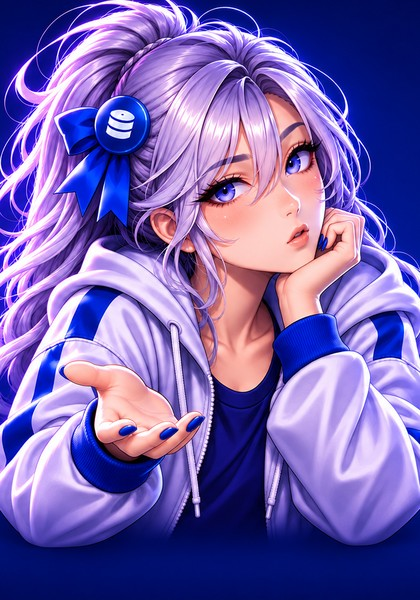
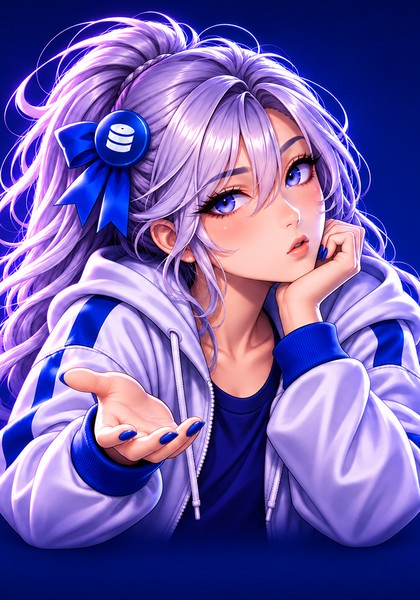
fix: show Emma at the same size in error and confirmation dialogs
The error portrait was cropped tighter than the confirmation one, so Emma looked zoomed in.
Both crops now have the same width. Crops also stay inside the art instead of running past its
bottom edge, which had squeezed the confirmation portrait by about 3 %.

diff --git a/build/make-dialog-art.py b/build/make-dialog-art.py
@@ -20,9 +20,10 @@ ASSETS = ROOT / "src" / "EmmaSpace.App" / "Assets"
 WIDTH, HEIGHT = 420, 600
 
 # name: (source art, output, crop as x,y,width fractions of the art's width; the height follows from 7:10)
+# Both use the same crop width, so Emma appears at the same size in either dialog.
 PORTRAITS = {
-    "question": ("emmaspace-dialog-art.png", "dialog-emma.jpg", (0.29, 0.052, 0.443)),       # face and open hand
-    "error": ("emmaspace-error-art.png", "dialog-emma-error.jpg", (0.374, 0.039, 0.41)),     # face and warning sign
+    "question": ("emmaspace-dialog-art.png", "dialog-emma.jpg", (0.29, 0.052, 0.443)),   # face and open hand
+    "error": ("emmaspace-error-art.png", "dialog-emma-error.jpg", (0.31, 0.052, 0.443)),  # face and warning sign
 }
 
 
@@ -30,7 +31,8 @@ def make(source: pathlib.Path, out: pathlib.Path, crop: tuple[float, float, floa
     art = Image.open(source).convert("RGB")
     x, y, w = (v * art.width for v in crop)
     h = w * HEIGHT / WIDTH
-    portrait = art.crop((round(x), round(y), round(x + w), round(min(y + h, art.height))))
+    y = max(0.0, min(y, art.height - h))  # keep the crop inside the art, so it is never squeezed
+    portrait = art.crop((round(x), round(y), round(x + w), round(y + h)))
     portrait.resize((WIDTH, HEIGHT), Image.Resampling.LANCZOS).save(out, "JPEG", quality=90, optimize=True, progressive=True)
     print(f"Wrote {out}")
 
